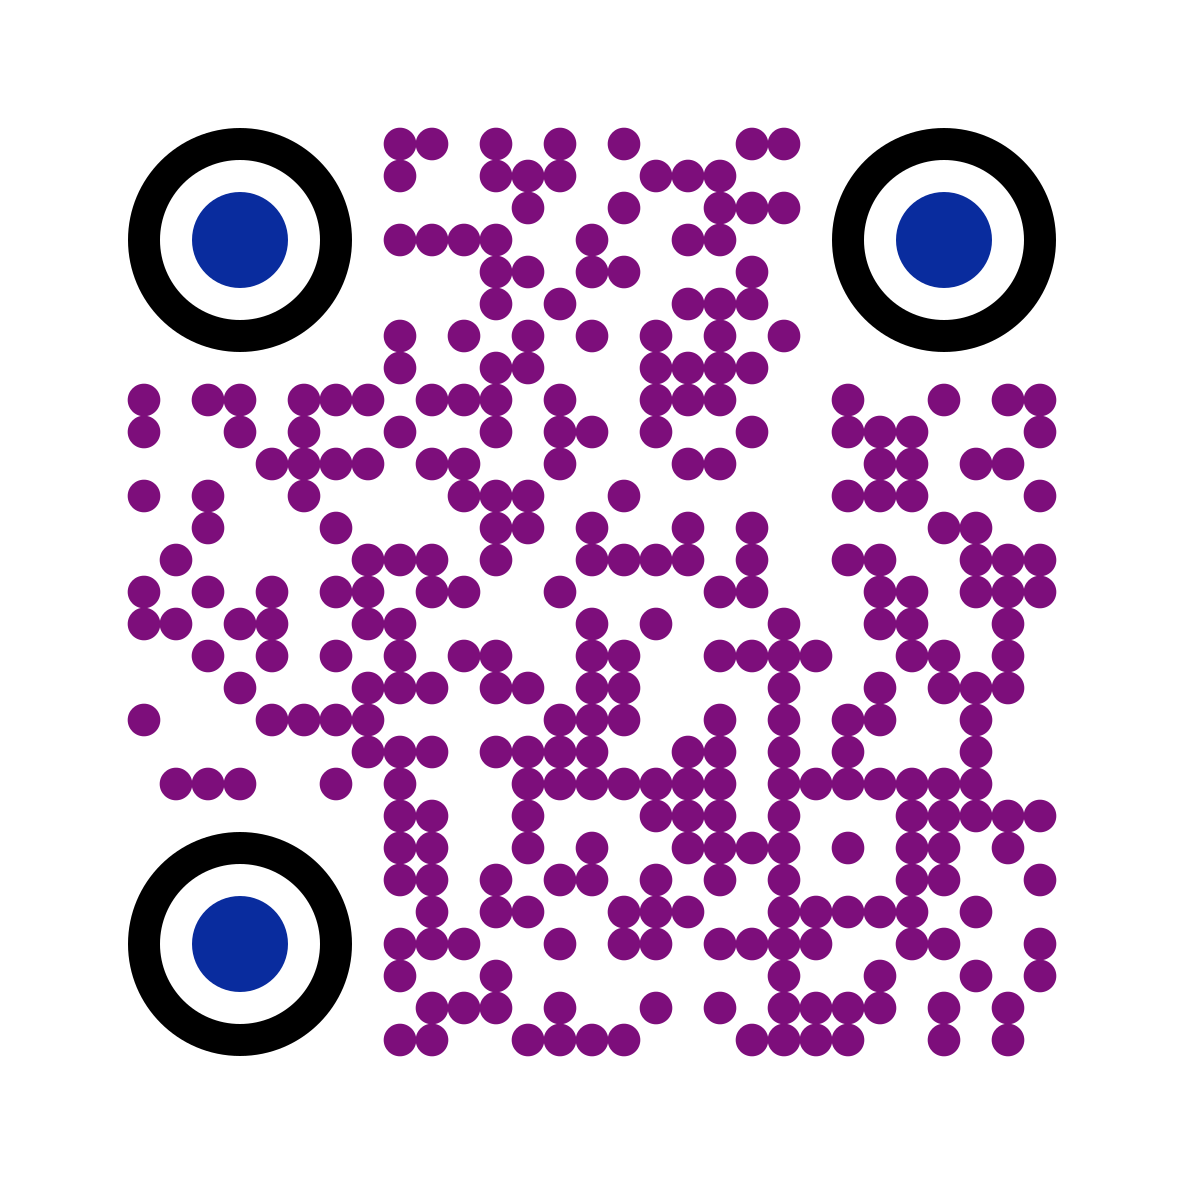
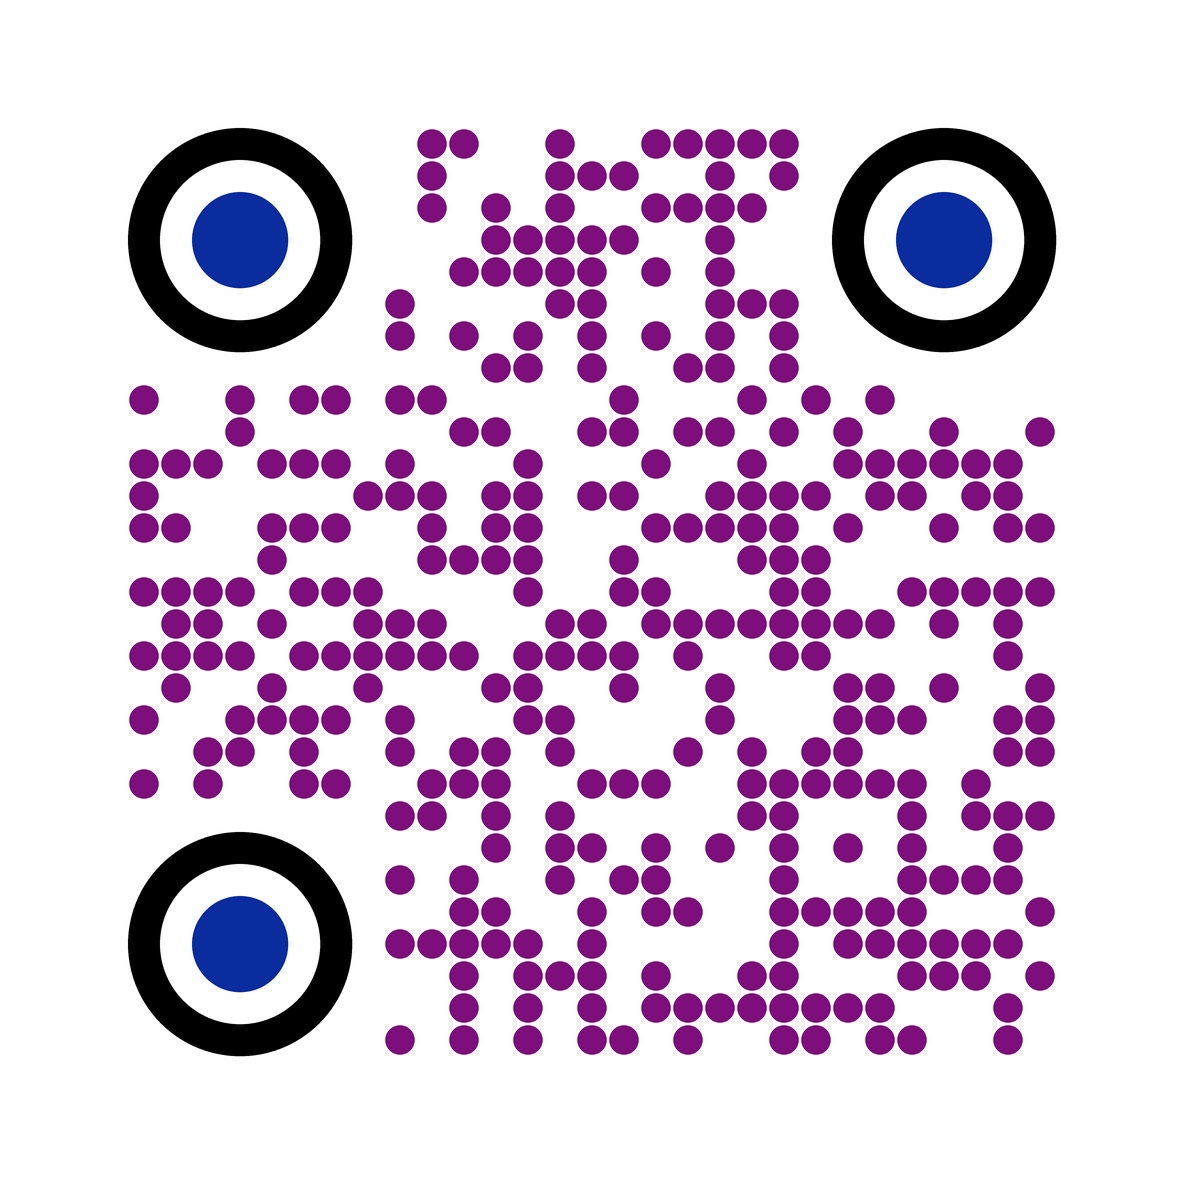
Move TeamX to teamx.pinkmilk.eu on QDE and remove Hostslim dependencies

Changed region(s): [[0.0938, 0.0938, 0.9062, 0.9062]]

diff --git a/teaminput/js/script.js b/teaminput/js/script.js
@@ -34,7 +34,7 @@
     }
 
     function getTeamFunUrl(gameCode) {
-        return `https://www.pinkmilk.eu/teamfun/${encodeURIComponent(gameCode)}`;
+        return `${window.location.origin}/teamfun/${encodeURIComponent(gameCode)}`;
     }
 
     function prepareNewGameCode() {
@@ -992,7 +992,7 @@
 
             // Valid TeamX show ID for photo app upload relation
             const validShowId = recordId;
-            const photocircleUrl = `https://www.pinkmilk.eu/phone/media.html?showId=${validShowId}`;
+            const photocircleUrl = `${window.location.origin}/phone/media.html?showId=${validShowId}`;
 
             // Check if active ranking record exists (priority=1)
             let existingRanking = null;

diff --git a/phone/media.html b/phone/media.html
@@ -17,7 +17,7 @@
     <div class="container">
         <!-- Back to Quiz Button -->
         <div class="back-nav-container">
-            <a href="https://www.pinkmilk.eu/teamx/phone/" id="backToQuizBtn" class="back-to-quiz-btn">
+            <a href="./" id="backToQuizBtn" class="back-to-quiz-btn">
                 <svg width="20" height="20" viewBox="0 0 24 24" fill="none" stroke="currentColor" stroke-width="2.5" stroke-linecap="round" stroke-linejoin="round">
                     <line x1="19" y1="12" x2="5" y2="12"></line>
                     <polyline points="12 19 5 12 12 5"></polyline>

diff --git a/phone/media-script.js b/phone/media-script.js
@@ -23,7 +23,7 @@ class TeamXMedia {
         const backBtn = document.getElementById('backToQuizBtn');
         if (!backBtn) return;
 
-        const hubUrl = new URL('https://www.pinkmilk.eu/teamx/phone/');
+        const hubUrl = new URL('./', window.location.href);
         if (this.showId) {
             hubUrl.searchParams.set('showId', this.showId);
         }

diff --git a/phone/config.js b/phone/config.js
@@ -16,8 +16,8 @@ const CONFIG = {
     
     // Sound effects
     SOUNDS: {
-        enter: 'https://www.pinkmilk.eu/teamx/wp-content/uploads/2024/12/success.wav',
-        reveal: 'https://www.pinkmilk.eu/teamx/wp-content/uploads/2024/12/stardust.wav'
+        enter: 'success.mp3',
+        reveal: 'stardust.mp3'
     },
     
     // UI Configuration

diff --git a/plan.md b/plan.md
@@ -1,0 +1,101 @@
+# Plan: Move TeamX Fully to QDE (Remove Hostslim Dependency)
+
+## Current State & Problem
+
+Right now, TeamX is split across two hosts:
+- **QDE (`45.148.62.92` / `ams1.qde.com`)**: Hosts **PocketBase** (`https://pb.pinkmilk.eu`).
+- **Hostslim (`103.214.6.202` / `sh-woe014.hostslim.nl`)**: Hosts `www.pinkmilk.eu` — all TeamX static files (`phone/`, `teams/`, `teaminput/`, `teamfun/`) and PHP endpoints (`phone/api/register.php`, `teamfun/api/delete.php`).
+
+Because every player, TV screen, and admin browser loads its HTML/JS/PHP from `www.pinkmilk.eu`, **any Hostslim outage breaks the entire show**, even though PocketBase on QDE is still online.
+
+---
+
+## Step 1: Choose the Domain Strategy
+
+Pick one of these two options before configuring QDE:
+
+- **Option A — Dedicated `teamx.pinkmilk.eu` subdomain on QDE (Recommended if `www.pinkmilk.eu` still runs WordPress/main site on Hostslim)**
+  - Point `teamx.pinkmilk.eu` (`A` record) to `45.148.62.92`.
+  - Zero risk to the main `www.pinkmilk.eu` website.
+  - Requires updating hardcoded `www.pinkmilk.eu` URLs in the codebase and regenerating `teams/join-qr.png` (plus any printed QR codes).
+
+- **Option B — Move `www.pinkmilk.eu` itself to QDE (or put a reverse proxy in front of `www.pinkmilk.eu` on QDE)**
+  - Existing `teams/join-qr.png` and any printed `www.pinkmilk.eu/teamx` QR codes continue to work without changes.
+  - Only choose this if you are ready to move or proxy the rest of `www.pinkmilk.eu` off Hostslim as well.
+
+*(The steps below work for either option; using relative URLs / `window.location.origin` in Step 3 makes the app domain-agnostic.)*
+
+---
+
+## Step 2: Configure Web Server & PHP on QDE (`45.148.62.92`)
+
+On the QDE server (alongside the existing `pb.pinkmilk.eu` PocketBase service):
+
+1. **Create a web root** (e.g., `/var/www/teamx`) containing:
+   - `phone/`
+   - `teams/`
+   - `teaminput/`
+   - `teamfun/`
+   - *(Optional compatibility aliases if using `/teamx/...` paths: symlink or route `/teamx/phone/`, `/teamx/teams/`, `/teamx/teaminput/` to those same directories.)*
+2. **Install & enable PHP-FPM** with `php-curl`, `php-mbstring`, and `php-json`:
+   - Needed by `phone/api/register.php` (uses `curl`, `mb_strtolower`, and `flock()` on `sys_get_temp_dir()`).
+   - Needed by `teamfun/api/delete.php` (uses `curl`).
+3. **Replicate `.htaccess` rules** in the QDE web server config (Nginx/Caddy/Apache):
+   - **`teamfun/` SPA routing** (from `teamfun/.htaccess`): rewrite `/teamfun/<GAMECODE>` (any non-file, non-directory path under `/teamfun/`) to `/teamfun/index.html`.
+   - **No-cache headers for `phone/` and `teams/`** (from `phone/.htaccess` & `teams/.htaccess`):
+     ```
+     Cache-Control: max-age=0, no-cache, no-store, must-revalidate
+     Pragma: no-cache
+     Expires: 0
+     ```
+     for `*.html`, `*.js`, and `*.css` so live show updates take effect immediately.
+   - **Security**: disable directory listing (`autoindex off` / `Options -Indexes`) and block direct access to `*.json` in `teaminput/` if needed.
+4. **Enable HTTPS** (Let's Encrypt / Caddy auto-TLS) for `teamx.pinkmilk.eu` (or `www.pinkmilk.eu`).
+
+---
+
+## Step 3: Remove Hardcoded `www.pinkmilk.eu` References in Code
+
+Update all files that currently point back to Hostslim (`www.pinkmilk.eu`) so they use the current origin (`window.location.origin` or relative paths):
+
+1. **`phone/media.html` (line 20)** & **`phone/media-script.js` (line 26)**:
+   - Currently hardcodes `https://www.pinkmilk.eu/teamx/phone/` for the "Terug naar de Quiz" button.
+   - Change to relative `./` (or `${window.location.origin}/phone/`).
+2. **`teaminput/js/script.js` (line 37)**:
+   - Currently builds `https://www.pinkmilk.eu/teamfun/${encodeURIComponent(gameCode)}`.
+   - Change to `${window.location.origin}/teamfun/${encodeURIComponent(gameCode)}` (or a `BASE_URL` in `teaminput/config.js`).
+3. **`teaminput/js/script.js` (line 995)**:
+   - Currently builds `https://www.pinkmilk.eu/phone/media.html?showId=${validShowId}`.
+   - Change to `${window.location.origin}/phone/media.html?showId=${validShowId}`.
+4. **Audio assets in `phone/config.js` (lines 19–20) & `phone/index.html` (lines 20–28)**:
+   - `phone/config.js` still references `https://www.pinkmilk.eu/teamx/wp-content/uploads/2024/12/success.wav` and `stardust.wav`.
+   - `phone/index.html` references local `success.mp3` and `stardust.mp3`, which are currently missing from `phone/` (only `whoosh.mp3` is in `phone/`).
+   - Copy `success.mp3` / `stardust.mp3` (or `.wav`) into `phone/` and update `phone/config.js` to relative paths so no audio is fetched from `www.pinkmilk.eu`.
+5. **QR Code (`teams/join-qr.png`)**:
+   - If choosing **Option A (`teamx.pinkmilk.eu`)**, regenerate `teams/join-qr.png` to point to `https://teamx.pinkmilk.eu/phone/` (and update any printed/keynote QR codes).
+6. **External dependencies check**:
+   - Verify `https://ranking.pinkmilk.eu` and `https://bingo.pinkmilk.eu` (linked in `teaminput/js/script.js`) are not hosted on Hostslim if you use them during shows.
+   - *(Optional hardening)* Self-host `pocketbase.umd.js` inside the repo instead of loading from `unpkg.com`, so a CDN hiccup can't break `phone/` or `teams/`.
+
+---
+
+## Step 4: DNS & Deployment Automation
+
+1. **DNS**: Add/update the `A` record for `teamx.pinkmilk.eu` (or `www.pinkmilk.eu`) to `45.148.62.92`.
+2. **Replace `deploy_ftp.py`**:
+   - `deploy_ftp.py` currently uploads to Hostslim (`103.214.6.202`).
+   - Add a QDE deploy script (e.g., `deploy_qde.sh` using `rsync` over SSH, or `git pull` on QDE) so deployments go directly to QDE instead of Hostslim.
+   - Update `.agents/skills/teamx-management/SKILL.md` to document the new QDE deploy command.
+
+---
+
+## Step 5: Pre-Show Verification Checklist
+
+Run these checks against the QDE URL before your next show:
+
+- [ ] **Automated tests**: Run `tests/phone-show-selection.test.cjs`, `tests/teamfun-quizmaster-delete.test.cjs`, and `tests/registration-concurrency.py`.
+- [ ] **Zero Hostslim requests**: Open `teams/`, `phone/`, `teaminput/`, and `teamfun/` in Safari Web Inspector (Network tab) and confirm **no requests** go to `www.pinkmilk.eu` (or `103.214.6.202`).
+- [ ] **Player registration**: Scan `teams/join-qr.png` on a phone → submit a name → confirm `phone/api/register.php` returns `200` and the player appears live on `teams/`.
+- [ ] **Photo App round-trip**: Click "Deel je foto's & video's" → upload a test photo → click "Terug naar de Quiz" → confirm it returns to QDE `phone/` with the returning-player session intact.
+- [ ] **TeamFun gallery**: Open `/teamfun/<GAMECODE>` directly in the browser (confirm SPA rewrite works without 404) and test quizmaster delete (`teamfun/api/delete.php`).
+- [ ] **Admin flow**: Open `teaminput/`, create/edit a test show, and verify generated `teamfun` and `media.html` links point to QDE.
